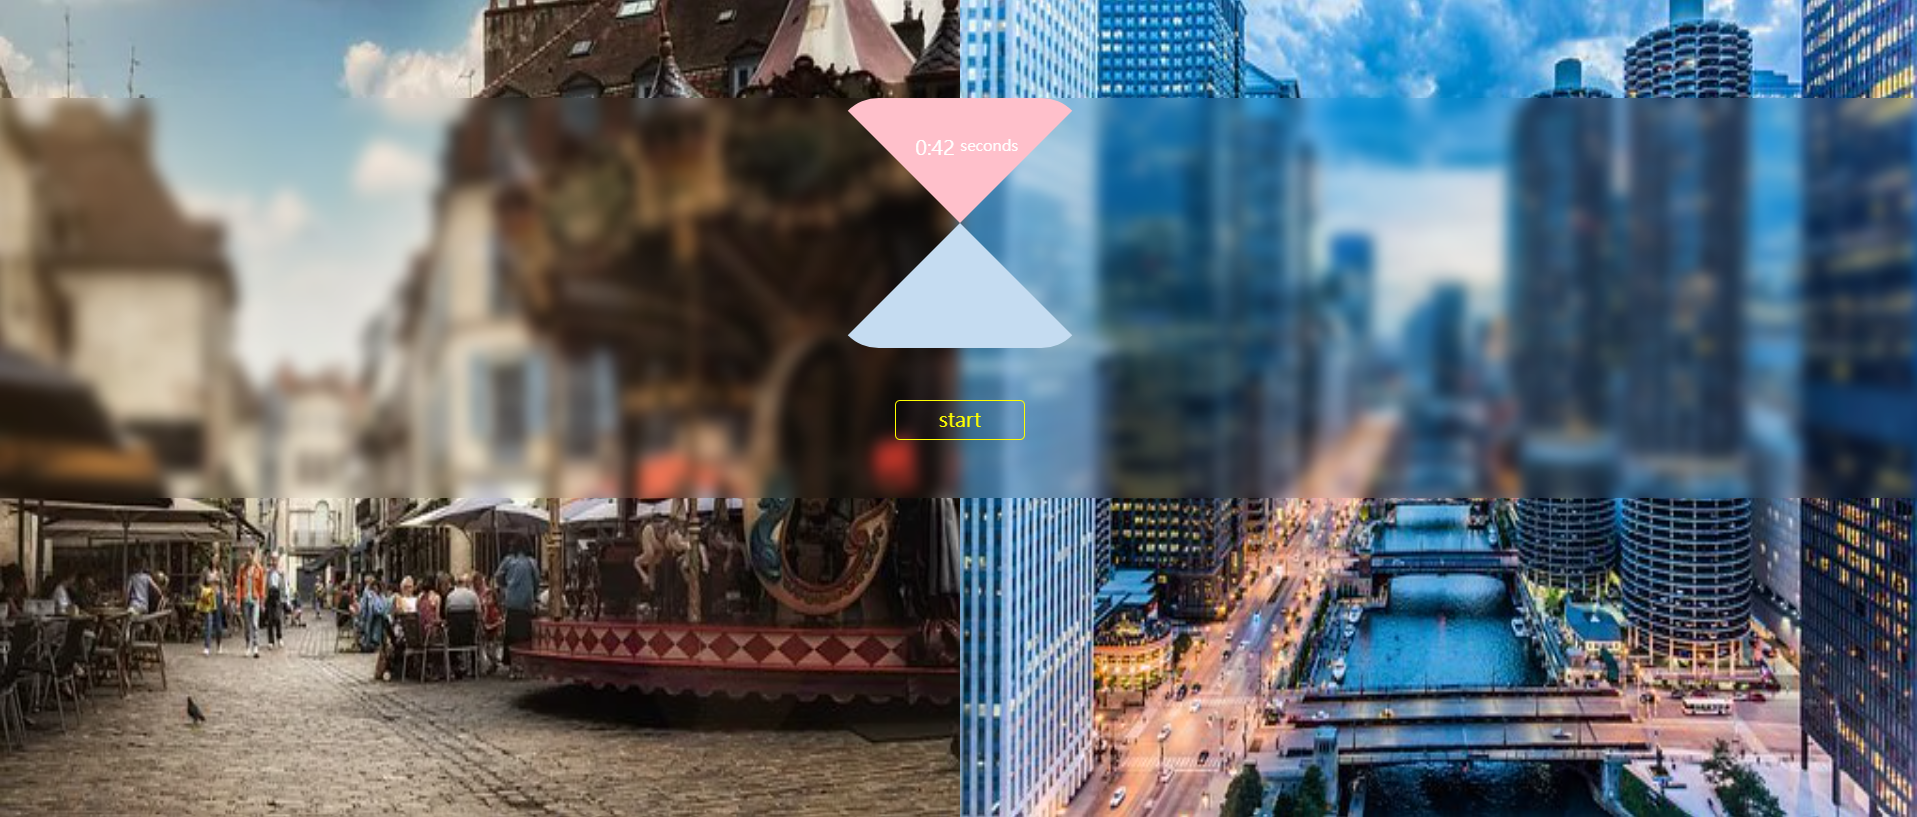
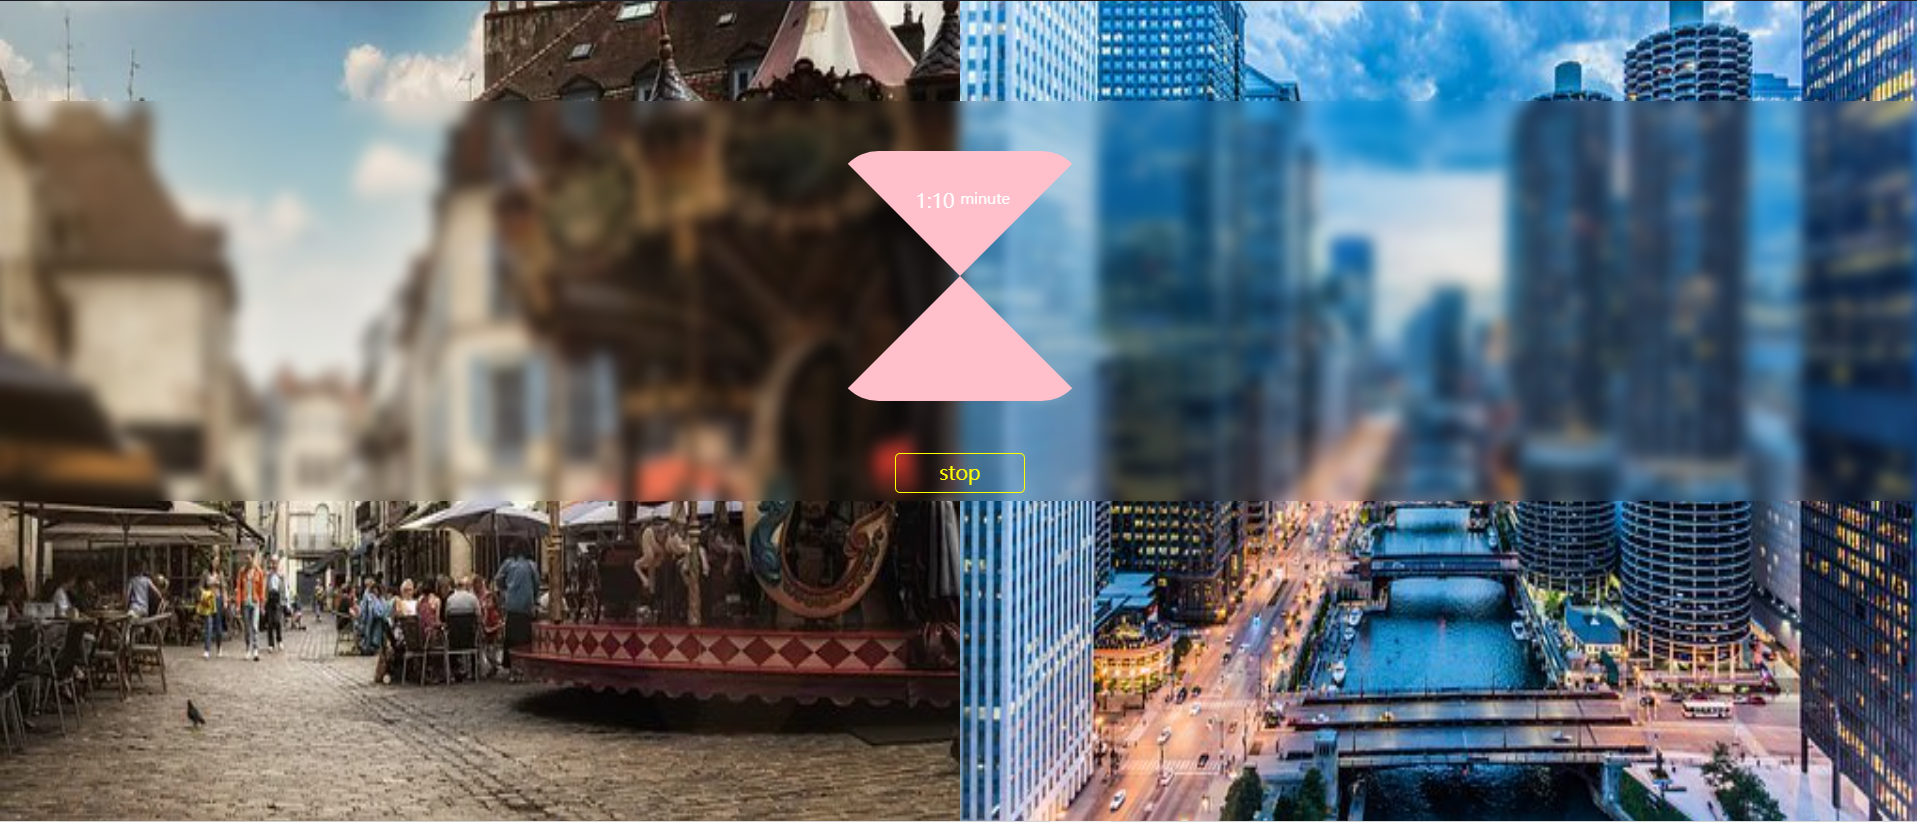
feat: add new portfolio

diff --git a/resume2/resume.css b/resume2/resume.css
@@ -5,7 +5,7 @@
   box-sizing: border-box;
 }
 img {
-  max-width: 100%;
+  /* max-width: 100%; */
   height: auto;
 }
 html,
@@ -269,14 +269,15 @@ ul {
 }
 .portfolios {
   margin-top: 1.5rem;
-  margin-bottom: 2rem;
+  margin-bottom: 12rem;
   width: 75.5rem;
-  height: 51rem;
+  height: 55rem;
 }
 .portfolioContent {
   display: flex;
   margin-top: 1rem;
 }
+
 .portfolioImg {
   width: 27rem;
   height: 10rem;
@@ -286,6 +287,10 @@ ul {
 .portfolioImg1 {
   width: 39rem;
   height: 10rem;
+}
+
+.hourglassContent {
+  margin-bottom: 3rem !important;
 }
 
 .talkGeneratorContent {
@@ -309,7 +314,7 @@ ul {
 .portfolioText1 {
   font-size: 1.3rem;
   margin-top: 0.5rem;
-  margin-left: -0.5rem;
+  margin-left: -14rem;
   line-height: 2rem;
 }
 .portfolioText2 {
@@ -544,11 +549,20 @@ ul {
   .portfolios {
     margin-top: 2rem;
     width: 44.5rem;
-    height: 58rem;
+    height: 59rem;
   }
   .portfolioContent {
     display: flex;
   }
+
+  .hourglassContent {
+    margin-bottom: 0rem !important;
+  }
+
+  .talkGeneratorContent {
+    margin-bottom: 0rem !important;
+  }
+
   .portfolioImg {
     width: 27rem;
     margin-top: 1rem;
@@ -579,22 +593,23 @@ ul {
   .portfolioText1 {
     font-size: 1.1rem;
     margin-top: 0.6rem;
-    width: 34.3rem;
-    padding-left: 1.8rem;
+    margin-left: 6.4rem;
+    width: 80%;
     line-height: 2rem;
   }
   .portfolioText2 {
-    /* border:1px solid red; */
+    /* border: 1px solid red; */
     font-size: 1.1rem;
     margin-top: 0.6rem;
     line-height: 2rem;
-    width: 34.3rem;
-    padding-left: 6.4rem;
+    width: 80%;
+    margin-left: 7.5rem;
   }
   .portfolioText3 {
     font-size: 1.1rem;
     margin-top: 0.6rem;
-    padding-left: 112px;
+    width: 80%;
+    margin-left: 6.6rem;
     line-height: 2rem;
   }
   .portfolioP {
@@ -604,7 +619,7 @@ ul {
     margin-left: 5.9rem;
   }
   .talkGeneratorContent {
-    margin-bottom: 5rem !important;
+    margin-bottom: 0rem !important;
     /* border: 1px solid red; */
   }
   .experience {
@@ -661,11 +676,11 @@ ul {
   }
 }
 
-@media (max-width: 760px) {
+@media (max-width: 883px) {
   .container {
     display: flex;
     flex-direction: column;
-    margin-left: 1rem;
+    margin-left: 4rem;
     /* align-items: flex-start; */
     margin-top: 3rem;
     height: auto;
@@ -780,7 +795,7 @@ ul {
   .portfolios {
     margin-top: 2rem;
     width: 28rem;
-    height: 100.5rem;
+    height: 112rem;
   }
   .portfolioContent {
     display: block;
@@ -820,21 +835,19 @@ ul {
     font-size: 1rem;
     margin-top: 0.6rem;
     line-height: 2rem;
-    width: 34.3rem;
-    padding-left: 2rem;
+    margin-left: 0.9rem;
   }
   .portfolioText2 {
     /* border:1px solid red; */
     font-size: 1rem;
     margin-top: 0.6rem;
     line-height: 2rem;
-    width: 34.3rem;
-    padding-left: 7rem;
+    margin-left: 0.9rem;
   }
   .portfolioText3 {
     font-size: 1rem;
     margin-top: 3rem;
-    padding-left: 6.9rem;
+    margin-left: 0.9rem;
     line-height: 2rem;
   }
   .portfolioP {
@@ -955,5 +968,16 @@ ul {
     position: absolute;
     left: 2rem;
     top: 4rem;
+  }
+}
+
+@media (max-width: 646px) {
+  .container {
+    display: flex;
+    flex-direction: column;
+    margin-left: 1rem;
+    /* align-items: flex-start; */
+    margin-top: 3rem;
+    height: auto;
   }
 }

diff --git a/resume2/index.html b/resume2/index.html
@@ -252,26 +252,20 @@
 
 
 
-<!-- <div class="portfolioContent">
+<div class="portfolioContent hourglassContent">
   <div class="portfolioImg portfolioImg1">
     <img src="countdown timer.png" alt="">
   </div>
 
   <div class="portfolioText1">
-    <p>專案簡介: 立體輪播相簿，可存入2.08MB以內的圖片或檔案，可以左右或是上下輪播，因為瀏覽器支援度的關係，建議使用Microsoft Edge瀏覽器觀看以達到最好效果。
-    <p>使用技術: HTML、CSS、JavaScript、RWD</p>
+    <p>專案簡介: 倒數計時器，按start開始計時，按stop停止，滴漏會隨著開始或停止旋轉，模擬真實的滴漏。</p>
+    <p>使用技術: React、HTML、CSS、RWD</p>
 
-    <p class="portfolioP">專案網址:<a href=" https://sophiacheng12.github.io/photoAlbum/photo" target="_blank"
-        class="portfolioA">
-        https://sophiacheng12.github.io/photoAlbum/photo</a>
-    </p>
+    <p class="portfolioP">codepen:<a href="https://codepen.io/Sophia0120/full/eYvOpWb" target="_blank" class="portfolioA">
+      https://codepen.io/Sophia0120/full/vYWreLg</a></p>
+  </div> 
 
-    <p class="portfolioP">github:<a href="https://github.com/SophiaCheng12/photoAlbum" target="_blank"
-        class="portfolioA">
-        https://github.com/SophiaCheng12/photoAlbum</a></p>
-  </div> -->
-
-<!-- </div> -->
+</div>
 
 
 
